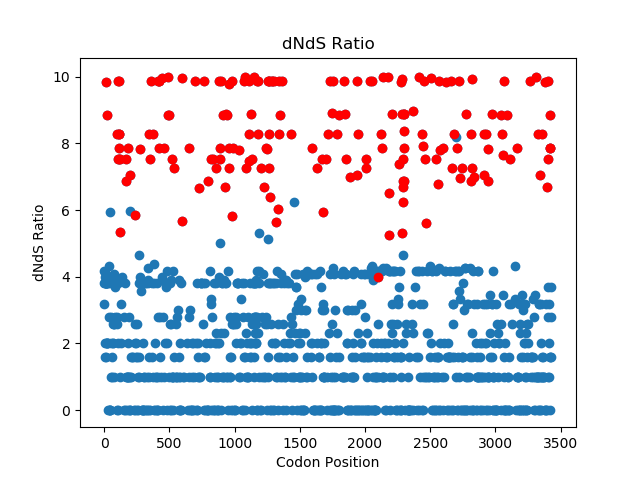
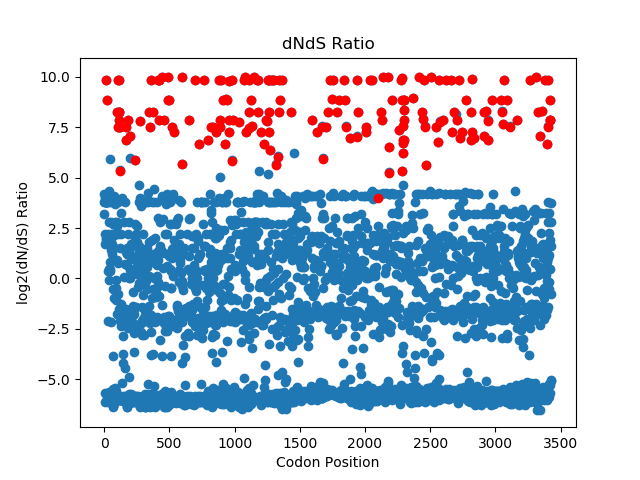
update5

diff --git a/Week-1/dndsandplot.py b/Week-1/dndsandplot.py
@@ -48,7 +48,7 @@ plt.savefig('Z-score (dash as nonsyn).png')
 plt.close()
 
 plt.figure()
-plt.scatter(range(0,len(diff)),np.log2(nonsyn_all/(syn_all+1))) #To not divide by zero, add 1 to the denominator
+plt.scatter(range(0,len(diff)),np.log2((nonsyn_all+0.1)/(syn_all+1))) #To not divide by zero, add 1 to the denominator
 plt.scatter(redind,np.log2(nonsyn_all[redind]/(syn_all[redind]+1)),c='red')
 plt.title('dNdS Ratio')
 plt.xlabel('Codon Position')
